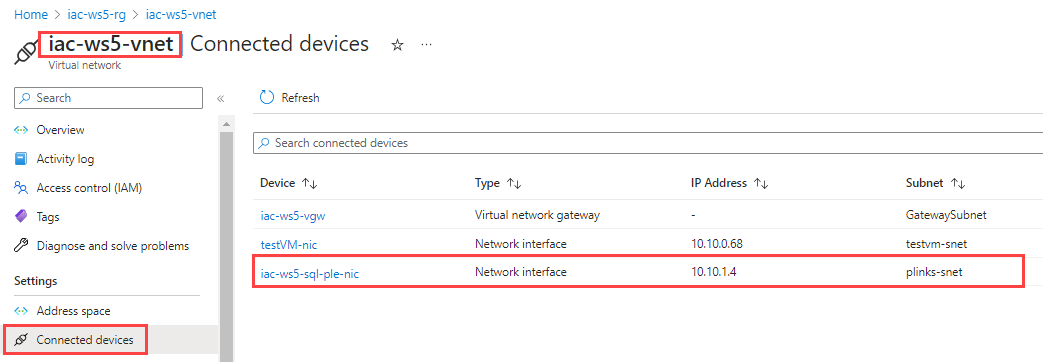
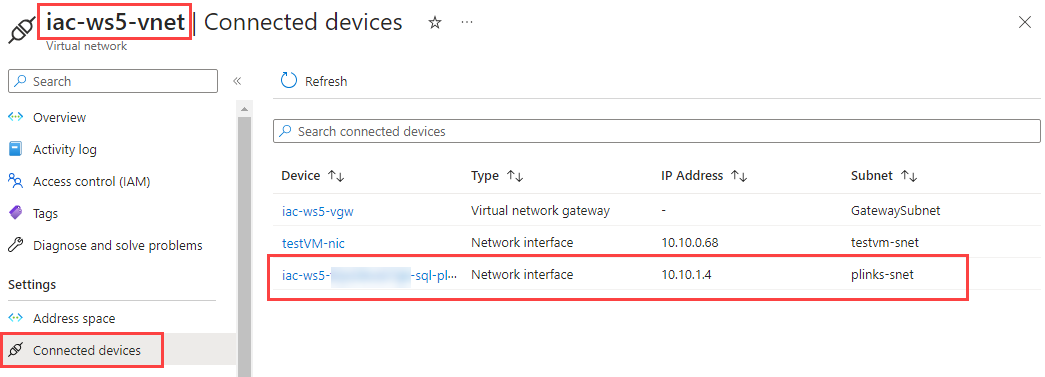
WIP use unique SQL server name

diff --git a/docs/labs/lab-02/index.md b/docs/labs/lab-02/index.md
@@ -5,13 +5,13 @@ In this lab, we'll use Azure POrtal to create a private endpoint for Azure SQL S
 
 ## Task #1 - test connectivity to SQL Server
 
-If you already created a connection to Azure SQL Server in Azure Data Studio (`Task #6` of [lab-01](../lab-01/index.md)), use one. Otherwise, create a new connection to Azure SQL Server and connect to it. You should be able to connect to Azure SQL Server.
+If you already created a connection to Azure SQL Server in Azure Data Studio ([Task #7 of lab-01](../lab-01/index.md#task-7-test-connectivity-to-sql-database)), use one. Otherwise, create a new connection to Azure SQL Server and connect to it. You should be able to connect to Azure SQL Server.
 
 ![sql1](../../assets/images/lab-02/sql1.png)
 
 ## Task #2 - create a private endpoint
 
-In the Azure portal, search for and select `iac-ws5-sql` instance of Azure SQL Server. Navigate to `Security -> Networking -> Private access` and click on `+ Create private endpoint` button.
+In the Azure portal, search for and select your SQL Server instance. Navigate to `Security -> Networking -> Private access` and click on `+ Create private endpoint` button.
 
 ![01](../../assets/images/lab-02/ple1.png)
 
@@ -21,8 +21,8 @@ At the `Create a private endpoint -> Basic` tab, fill in the following parameter
 |---|---|
 | Subscription | your subscription |
 | Resource group | `iac-ws5-rg` |
-| Name | `iac-ws5-sql-ple` |
-| Network Interface Name | `iac-ws5-sql-ple-nic` |
+| Name | `YOUR-SQL-SERVER-NAME-ple` |
+| Network Interface Name | `YOUR-SQL-SERVER-NAME-ple-nic` |
 | Region | `West Europe` | 
 
 ![02](../../assets/images/lab-02/ple2.png)
@@ -61,13 +61,13 @@ It will take a few minutes to deploy private endpoint.
 
 ## Task #3 - check what was deployed
 
-Open `iac-ws5-sql-ple` private endpoint resource and check information under `Overview` tab:
+Open `YOUR-SQL-SERVER-NAME-ple` private endpoint resource and check information under `Overview` tab:
 
 ![07](../../assets/images/lab-02/ple7.png)
 
-From here we can see that private endpoint is associated with `iac-ws5-sql` instance of Azure SQL Server, it uses `iac-ws5-ple-nic` Network interface that is deployed into `plinks-snet` subnet in `iac-ws5-vnet` virtual network.
+From here we can see that private endpoint is associated with `YOUR-SQL-SERVER-NAME` instance of Azure SQL Server, it uses `YOUR-SQL-SERVER-NAME-ple-nic` Network interface that is deployed into `plinks-snet` subnet in `iac-ws5-vnet` virtual network.
 
-Now, open `iac-ws5-sql-ple-nic` network interface resource and check information under `Overview` tab:
+Now, open `YOUR-SQL-SERVER-NAME-ple-nic` network interface resource and check information under `Overview` tab:
 
 ![08](../../assets/images/lab-02/ple8.png)
 
@@ -75,24 +75,25 @@ Here we can find what private IP was assigned to the private endpoint. In my cas
 
 ![09](../../assets/images/lab-02/ple9.png)
 
-Back to `iac-ws5-sql-ple` private endpoint resource and check information under `DNS configuration` tab:
+Back to `YOUR-SQL-SERVER-NAME-ple` private endpoint resource and check information under `DNS configuration` tab:
 
 ![10](../../assets/images/lab-02/ple10.png)
 
-What we can see here is that SQL Server instance is now has `iac-ws5-sql.privatelink.database.windows.net` FQDN which will be resolved with `10.10.1.4` IP address.
+What we can see here is that SQL Server instance is now has `YOUR-SQL-SERVER-NAME.privatelink.database.windows.net` FQDN which will be resolved with `10.10.1.4` IP address.
 
 Finally, open `privatelink.database.windows.net` Private DNS Zone resource and check information under `Overview` tab:
 
 ![11](../../assets/images/lab-02/ple11.png)
 
-Here you can see that a new A-record was created for `iac-ws5-sql` instance pointing to IP address of `iac-ws5-sql-ple-nic` network interface.
+Here you can see that a new A-record was created for `YOUR-SQL-SERVER-NAME` instance pointing to IP address of `YOUR-SQL-SERVER-NAME-ple-nic` network interface.
 
 ## Task #4 - resolve private endpoint
 
 RDP into testVM, open PowerShell console, and run the following command:
 
 ```powershell
-nslookup iac-ws5-sql.database.windows.net
+$sqlServerName = (az sql server list -g iac-ws5-rg --query [0].name -o tsv)
+Resolve-DnsName "$sqlServerName.database.windows.net"
 ```
 
 You'll receive a message similar to what is displayed below:
@@ -102,18 +103,19 @@ Server:  UnKnown
 Address:  168.63.129.16
 
 Non-authoritative answer:
-Name:    iac-ws5-sql.privatelink.database.windows.net
+Name:    YOUR-SQL-SERVER-NAME.privatelink.database.windows.net
 Address:  10.10.1.4
-Aliases:  iac-ws5-sql.database.windows.net
+Aliases:  YOUR-SQL-SERVER-NAME.database.windows.net
 ```
 
-As you can see from test VM the `iac-ws5-sql.database.windows.net` is resolved to private IP address of Azure SQL Server instance via `iac-ws5-sql.privatelink.database.windows.net` alias. 
-This is because this VM is deployed on Azure and uses default Azure DNS server (`168.63.129.16`) and it knows about `privatelink.database.windows.net` Private DNS Zone and therefore can resolve `iac-ws5-sql.database.windows.net` to private IP address.
+As you can see from test VM the `YOUR-SQL-SERVER-NAME.database.windows.net` is resolved to private IP address of Azure SQL Server instance via `YOUR-SQL-SERVER-NAME.privatelink.database.windows.net` alias. 
+This is because this VM is deployed on Azure and uses default Azure DNS server (`168.63.129.16`) and it knows about `privatelink.database.windows.net` Private DNS Zone and therefore can resolve `YOUR-SQL-SERVER-NAME.database.windows.net` to private IP address.
 
 Run the same command from your PC and check the output. 
 
 ```powershell
-nslookup iac-ws5-sql.database.windows.net
+$sqlServerName = (az sql server list -g iac-ws5-rg --query [0].name -o tsv)
+Resolve-DnsName "$sqlServerName.database.windows.net"
 ```	
 
 You'll receive a message similar to what is displayed below:
@@ -125,31 +127,31 @@ Address:  80.232.93.171
 Non-authoritative answer:
 Name:    cr4.westeurope1-a.control.database.windows.net
 Address:  104.40.168.105
-Aliases:  iac-ws5-sql.database.windows.net
-          iac-ws5-sql.privatelink.database.windows.net
+Aliases:  YOUR-SQL-SERVER-NAME.database.windows.net
+          YOUR-SQL-SERVER-NAME.privatelink.database.windows.net
           dataslice9.westeurope.database.windows.net
           dataslice9westeurope.trafficmanager.net
 ```
 
-As you can see, from your PC `iac-ws5-sql.database.windows.net` is resolved to public IP address of Azure SQL Server instance. 
-Since your PC uses either your internal home DNS server or DNS server of your internet provider, it doesn't know anything about `privatelink.database.windows.net` Private DNS Zone and therefore resolves `iac-ws5-sql.database.windows.net` to known public IP.  
+As you can see, from your PC `YOUR-SQL-SERVER-NAME.database.windows.net` is resolved to public IP address of Azure SQL Server instance. 
+Since your PC uses either your internal home DNS server or DNS server of your internet provider, it doesn't know anything about `privatelink.database.windows.net` Private DNS Zone and therefore resolves `YOUR-SQL-SERVER-NAME.database.windows.net` to known public IP.  
 
 ## Task #4 - disable public access to Azure SQL server
 
 Assume you would like to disable all public access to your Azure SQL server, and only allow connections from your virtual network.
 
-Navigate to `Networking` page of `iac-ws5-sql` instance of Azure SQL Server, select `Public access` tab, then select `Disable` for `Public network access`.
+Navigate to `Networking` page of `YOUR-SQL-SERVER-NAME` instance of Azure SQL Server, select `Public access` tab, then select `Disable` for `Public network access`.
 
 ![sql2](../../assets/images/lab-02/sql2.png)
 
-Back to Azure Data Studio and try to reconnect to `iac-ws5-sql.database.windows.net` instance. You'll receive an error message similar to this one:
+Back to Azure Data Studio on your PC and try to reconnect to `YOUR-SQL-SERVER-NAME.database.windows.net` instance. You'll receive an error message similar to this one:
 
 ![sql3](../../assets/images/lab-02/sql3.png)
 
 
 ## Task #5 (optional) - test connectivity to SQL server from the testVM
 
-Remote into the testVM, download and install [Azure Data Studio](https://docs.microsoft.com/en-us/sql/azure-data-studio/download-azure-data-studio?view=sql-server-ver15&WT.mc_id=AZ-MVP-5003837) and add new connection to `iac-ws5-sql.database.windows.net` instance of Azure SQL Server as described at `Task #6` of [lab-01](../lab-01/index.md). 
+Remote into the testVM, download and install [Azure Data Studio](https://docs.microsoft.com/en-us/sql/azure-data-studio/download-azure-data-studio?view=sql-server-ver15&WT.mc_id=AZ-MVP-5003837) and add new connection to `YOUR-SQL-SERVER-NAME.database.windows.net` instance of Azure SQL Server as described at [Task #7 of lab-01](../lab-01/index.md#task-7-test-connectivity-to-sql-database). 
 
 You should be able to connect to the SQL server instance from the testVM via private endpoint.
 
@@ -158,37 +160,35 @@ You should be able to connect to the SQL server instance from the testVM via pri
 Edit `c:\Windows\System32\Drivers\etc\hosts` (or `/etc/hosts` on Linux) file on your PC and add the following line. Note that you need to use your private IP address of SQL Server private endpoint.
 
 ```text
-10.10.1.4 iac-ws5-sql.database.windows.net
+10.10.1.4 YOUR-SQL-SERVER-NAME.database.windows.net
 ```
 
 Save `hosts` file. 
 
-Now try to resolve `iac-ws5-sql.database.windows.net` from your PC. 
+Now try to resolve `YOUR-SQL-SERVER-NAME.database.windows.net` from your PC. 
 
 ```powershell
-nslookup iac-ws5-sql.database.windows.net
+$sqlServerName = (az sql server list -g iac-ws5-rg --query [0].name -o tsv)
+Resolve-DnsName "$sqlServerName.database.windows.net"
 ```
 
-if you are on windows, `nslookup` will still resolve it to the public IP address (somehow it doesn't read configuration from `hosts` file). But `Resolve-DnsName` powershell command does.
-
-```powershell
-Resolve-DnsName iac-ws5-sql.database.windows.net
-```
+Now it should be resolved to private IP address of Azure SQL Server instance.
 
 ```powershell
 Name                                           Type   TTL   Section    IPAddress
 ----                                           ----   ---   -------    ---------
-iac-ws5-sql.database.windows.net               A      82234 Answer     10.10.1.4
+YOUR-SQL-SERVER-NAME.database.windows.net               A      82234 Answer     10.10.1.4
 ```
 
-Now, make sure that your Azure VPN connection is established, and try to reconnect to `iac-ws5-sql.database.windows.net` from Azure Data Studio. You'll be able to connect.
+Now, make sure that your Azure VPN connection is established, and try to reconnect to `YOUR-SQL-SERVER-NAME.database.windows.net` from Azure Data Studio. You'll be able to connect.
 
 ## Task #7 - cleaning up
 
-Disconnect from Azure SQL Server instance and delete what you have added into `hosts` file.
+Disconnect from Azure SQL Server instance. 
+Delete what you have added into `hosts` file.
 
-Check that `iac-ws5-sql.database.windows.net` is now resolved to public IP address.
+Check that `YOUR-SQL-SERVER-NAME.database.windows.net` is now resolved to public IP address.
 
 ```powershell
-Resolve-DnsName iac-ws5-sql.database.windows.net
+Resolve-DnsName "$sqlServerName.database.windows.net"
 ```

diff --git a/docs/labs/lab-01/index.md b/docs/labs/lab-01/index.md
@@ -102,34 +102,34 @@ ipconfig
 
 ![ipconfig](../../assets/images/lab-01/ipconfig.png)
 
-## Task #5 - test connectivity to test VM
+## Task #5 - test connectivity to testVM
 
-Get test VM private IP address 
+Get testVM private IP address 
 
 ```powershell
-# Get test VM private IP address
-az vm list-ip-addresses -g iac-ws5-rg -n testVM --query [0].virtualMachine.network.privateIpAddresses[0] -otsv
+az vm list-ip-addresses -g iac-ws5-rg -n testVM --query [0].virtualMachine.network.privateIpAddresses[0] -o tsv
 ```
 
-Most likely, your IP will be `10.10.0.68`, but it can be different...
-
-Make sure that Azure VPN is connected and use this IP and connect to test VM using RDP. Use `iac-admin` as username and password you provided during deployment.
+Make sure that Azure VPN is connected, use this IP and connect to testVM using RDP. Use `iac-admin` as username (if you haven't change it) and use password you provided during deployment.
 
 ![rdp](../../assets/images/lab-01/test-vm.png)
 
-You should be able to remote into test VM.
+You should now be able to remote into testVM.
 
 
 ## Task #6 - configure testVM
 
-While you are the testVM, download and install latest version of `az cli` from [this link](https://docs.microsoft.com/en-us/cli/azure/install-azure-cli?view=azure-cli-latest&WT.mc_id=AZ-MVP-5003837)
+While you are at testVM, download and install latest version of `az cli` from [this link](https://docs.microsoft.com/en-us/cli/azure/install-azure-cli?view=azure-cli-latest&WT.mc_id=AZ-MVP-5003837)
 
 When installed, open PowerShell and login to your azure account by running:
 
 ```powershell
 az login
+```
 
-# Check that you logged in and check that you use correct subscription (if you have more than one subscription)
+Check that you logged in and that you use correct subscription (if you have more than one subscription):
+
+```powershell
 az account show
 ```
 
@@ -138,9 +138,18 @@ az account show
 Start `Azure Data Studio`. If you haven't install it yet, download and install [Azure Data Studio](https://docs.microsoft.com/en-us/sql/azure-data-studio/download-azure-data-studio?view=sql-server-ver15&WT.mc_id=AZ-MVP-5003837) or install it with `winget` (Windows only).
 
 ```powershell
-# Install SQL Management Studio with winget
 winget install -e --id Microsoft.AzureDataStudio
 ``` 
+
+SQL logical server names is globally unique, so we all have different name. Let's get your sql server name:
+
+```powershell
+az sql server list -g iac-ws5-rg --query [0].name -o tsv
+```
+
+!!! info "SQL Server name"
+    Further down in all labs, you should replace `YOUR-SQL-SERVER-NAME` with value you received from the command above. It will looks something like `iac-ws5-...-sql`
+
 
 Create a new connection to Azure SQL Server and use the following parameters:
 
@@ -150,15 +159,13 @@ Create a new connection to Azure SQL Server and use the following parameters:
 | --- | --- |
 | Connection type | Microsoft SQL Server |
 | Input type | Parameters |
-| Server | iac-ws5-sql.database.windows.net,1433 |
+| Server | YOUR-SQL-SERVER-NAME.database.windows.net,1433 |
 | Authentication type | Azure Active Directory - Universal with MFA support  |
 | Account | Click `Add an account`, authenticate with your Azure AD account, and then select your account from the list  |
 | Authentication type | Azure Active Directory - Universal with MFA support  |
-| Database | Default or select iac-ws5-db  |
+| Database | Default or select `iac-ws5-sqldb`  |
 
-Keep all other parameters as default and click `Connect`.
-
-You should now be connected to Azure SQL Server.
+Keep remaining parameters as default and click `Connect`. You should now be connected to Azure SQL Server.
 
 ![test-sql-2](../../assets/images/lab-01/test-sql-2.png)
 
@@ -179,4 +186,7 @@ az keyvault secret set --vault-name $keyVaultName --name "foo" --value "bar"
 
 # Get foo secret from keyvault
 az keyvault secret show --vault-name $keyVaultName --name "foo" --query value -otsv
+
+# Get all secrets
+az keyvault secret list --vault-name $keyVaultName
 ```

diff --git a/docs/labs/lab-03/index.md b/docs/labs/lab-03/index.md
@@ -81,10 +81,9 @@ resource privateEndpointDns 'Microsoft.Network/privateEndpoints/privateDnsZoneGr
 }
 ```
 
-Save the file and deploy it using the following command:
+Save the file and deploy Bicep template using the following command:
 
 ```powershell
-# Deploy the Bicep template
 az deployment group create -g iac-ws5-rg --template-file .\keyvaultPrivateEndpoint.bicep -n 'Deploy-KeyVault-PrivateEndpoint'
 ```
 
@@ -97,7 +96,7 @@ It will deploy the following Azure resources:
 
 ## Task #2 - resolve private endpoint
 
-First, get your KeyVault name. KeyVault name is unique, so the name of the KeyVault will be different for you. You can get the name using the following command:
+First, get your KeyVault name. KeyVault name is unique, so the name of your's KeyVault will be different. You can get the name using the following command:
 
 ```powershell
 az keyvault list -g iac-ws5-rg --query '[].name' -o tsv
@@ -106,7 +105,8 @@ az keyvault list -g iac-ws5-rg --query '[].name' -o tsv
 Connect to your testVM using RDP, open PowerShell console and try to resolve the Azure KeyVault DNS name:
 
 ```powershell
-nslookup 'YOUR-KEYVAULT-NAME.vault.azure.net'
+$keyvaultName = (az keyvault list -g iac-ws5-rg --query '[].name' -o tsv)
+Resolve-DnsName "$keyvaultName.vault.azure.net"
 ```
 
 You'll see response similar to what is displayed below:
@@ -126,7 +126,7 @@ Now, try to resolve it from your PC.
 
 ```powershell
 $keyvaultName = (az keyvault list -g iac-ws5-rg --query '[].name' -o tsv)
-nslookup "$keyvaultName.vault.azure.net"
+Resolve-DnsName "$keyvaultName.vault.azure.net"
 ```	
 
 You'll receive message similar to what is displayed below:
@@ -160,10 +160,11 @@ az keyvault secret list --vault $keyvaultName
 RDP to the testVM, open PowerShell and run the same command:
 
 ```powershell
-az keyvault secret list --vault YOUR-KEYVAULT-NAME
+$keyvaultName = (az keyvault list -g iac-ws5-rg --query '[].name' -o tsv)
+az keyvault secret list --vault $keyvaultName
 ```
 
-You should be able to get (an empty) list of secrets from both locations.
+You should be able to get a list of secrets from both locations.
 
 Now, let's disable public access to the keyVault. Navigate to `Networking->Firewalls and virtual networks` tab of KeyVault instance and select `Disable public access` for `Allow access from...`. Click `Apply`.
 
@@ -171,8 +172,6 @@ Now, let's disable public access to the keyVault. Navigate to `Networking->Firew
 
 
 Now, try to get list of secrets again. From your PC, run the following command:
-
-```powershell
 
 ```powershell
 az keyvault secret list --vault $keyvaultName
@@ -190,7 +189,7 @@ Inner error: {
 Try to re-run the same command from testVM. 
 
 ```powershell
-az keyvault secret list --vault YOUR-KEYVAULT-NAME
+az keyvault secret list --vault $keyvaultName
 ```
 
 You will still be able to get list of secrets. This is because testVM uses private endpoint to access Azure KeyVault.

diff --git a/docs/labs/lab-04/index.md b/docs/labs/lab-04/index.md
@@ -88,7 +88,8 @@ $keyvaultName = (az keyvault list -g iac-ws5-rg --query '[].name' -o tsv)
 Resolve-DnsName "$keyvaultName.vault.azure.net"
 
 # SQL Server
-Resolve-DnsName iac-ws5-sql.database.windows.net
+$sqlServerName = (az sql server list -g iac-ws5-rg --query [0].name -o tsv)
+Resolve-DnsName "$sqlServerName.database.windows.net"
 ```
 
 Now, open Azure VPN CLient, disconnect your active connection and then remove it.
@@ -129,7 +130,8 @@ $keyvaultName = (az keyvault list -g iac-ws5-rg --query '[].name' -o tsv)
 Resolve-DnsName "$keyvaultName.vault.azure.net"
 
 # SQL Server
-Resolve-DnsName iac-ws5-sql.database.windows.net
+$sqlServerName = (az sql server list -g iac-ws5-rg --query [0].name -o tsv)
+Resolve-DnsName "$sqlServerName.database.windows.net"
 ```
 
 Both should be resolved to their private IP addresses.
@@ -140,11 +142,10 @@ Try to get secrets from the Azure KeyVault:
 
 ```powershell
 $keyvaultName = (az keyvault list -g iac-ws5-rg --query '[].name' -o tsv)
-
 az keyvault secret list --vault-name $keyvaultName
 ```
 
-From the Azure Data Studio, try to connect to `iac-ws5-sql.database.windows.net` SQL Server.
+From the Azure Data Studio, try to connect to your SQL Server.
 
 ## Links
 
